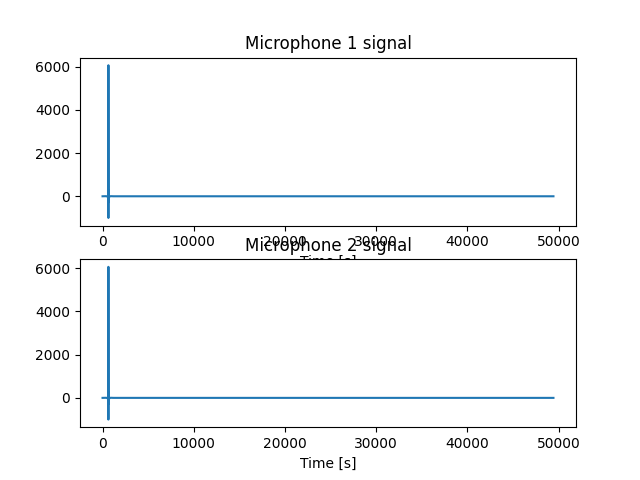
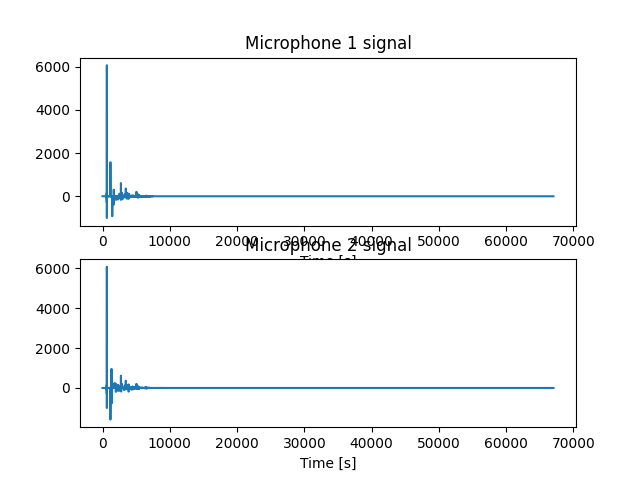
checkpoint avec idealMat
IR générée avec succès avec ces paramètres :

room :
max_order=2,
ray_tracing=True,

mat :
idealMat = (0.1,0.8)

Mesh (partiel)  3/5

diff --git a/CustomsScripts/loop.py b/CustomsScripts/loop.py
@@ -167,28 +167,29 @@ size_reduc_factor = 1  # to get a realistic room size (not 3km)
 # Le code en cours est pour préparer le rendu avec plusieurs matériaux,
 # il reste à trouver les bonnes valeurs
 
-# pra.Material(energy_absorption=0.1, scattering=0.8)
+idealMat = pra.Material(energy_absorption=0.1, scattering=0.8)
+safeMat = pra.Material(energy_absorption=1.0, scattering=0.0)
 
 meshMatMap = {
     # "Fabric": {
     #     "stlPath": "TheatreJoined.001.stl",
-    #     "material": pra.Material(energy_absorption=1.0, scattering=0.0),
+    #     "material": idealMat,
     # },
     "Stone": {
         "stlPath": "TheatreJoined.002.stl",
-        "material": pra.Material(energy_absorption=1.0, scattering=0.0),
+        "material": idealMat,
     },
     # "Dry Wall": {
     #     "stlPath": "TheatreJoined.003.stl",
-    #     "material": pra.Material(energy_absorption=1.0, scattering=0.0),
+    #     "material": idealMat,
     # },
     "Worked Wood": {
         "stlPath": "TheatreJoined.004.stl",
-        "material": pra.Material(energy_absorption=1.0, scattering=0.0),
+        "material": idealMat,
     },
     "Smooth Wood": {
         "stlPath": "TheatreJoined.005.stl",
-        "material": pra.Material(energy_absorption=1.0, scattering=0.0),
+        "material": idealMat,
     },
 }
 
